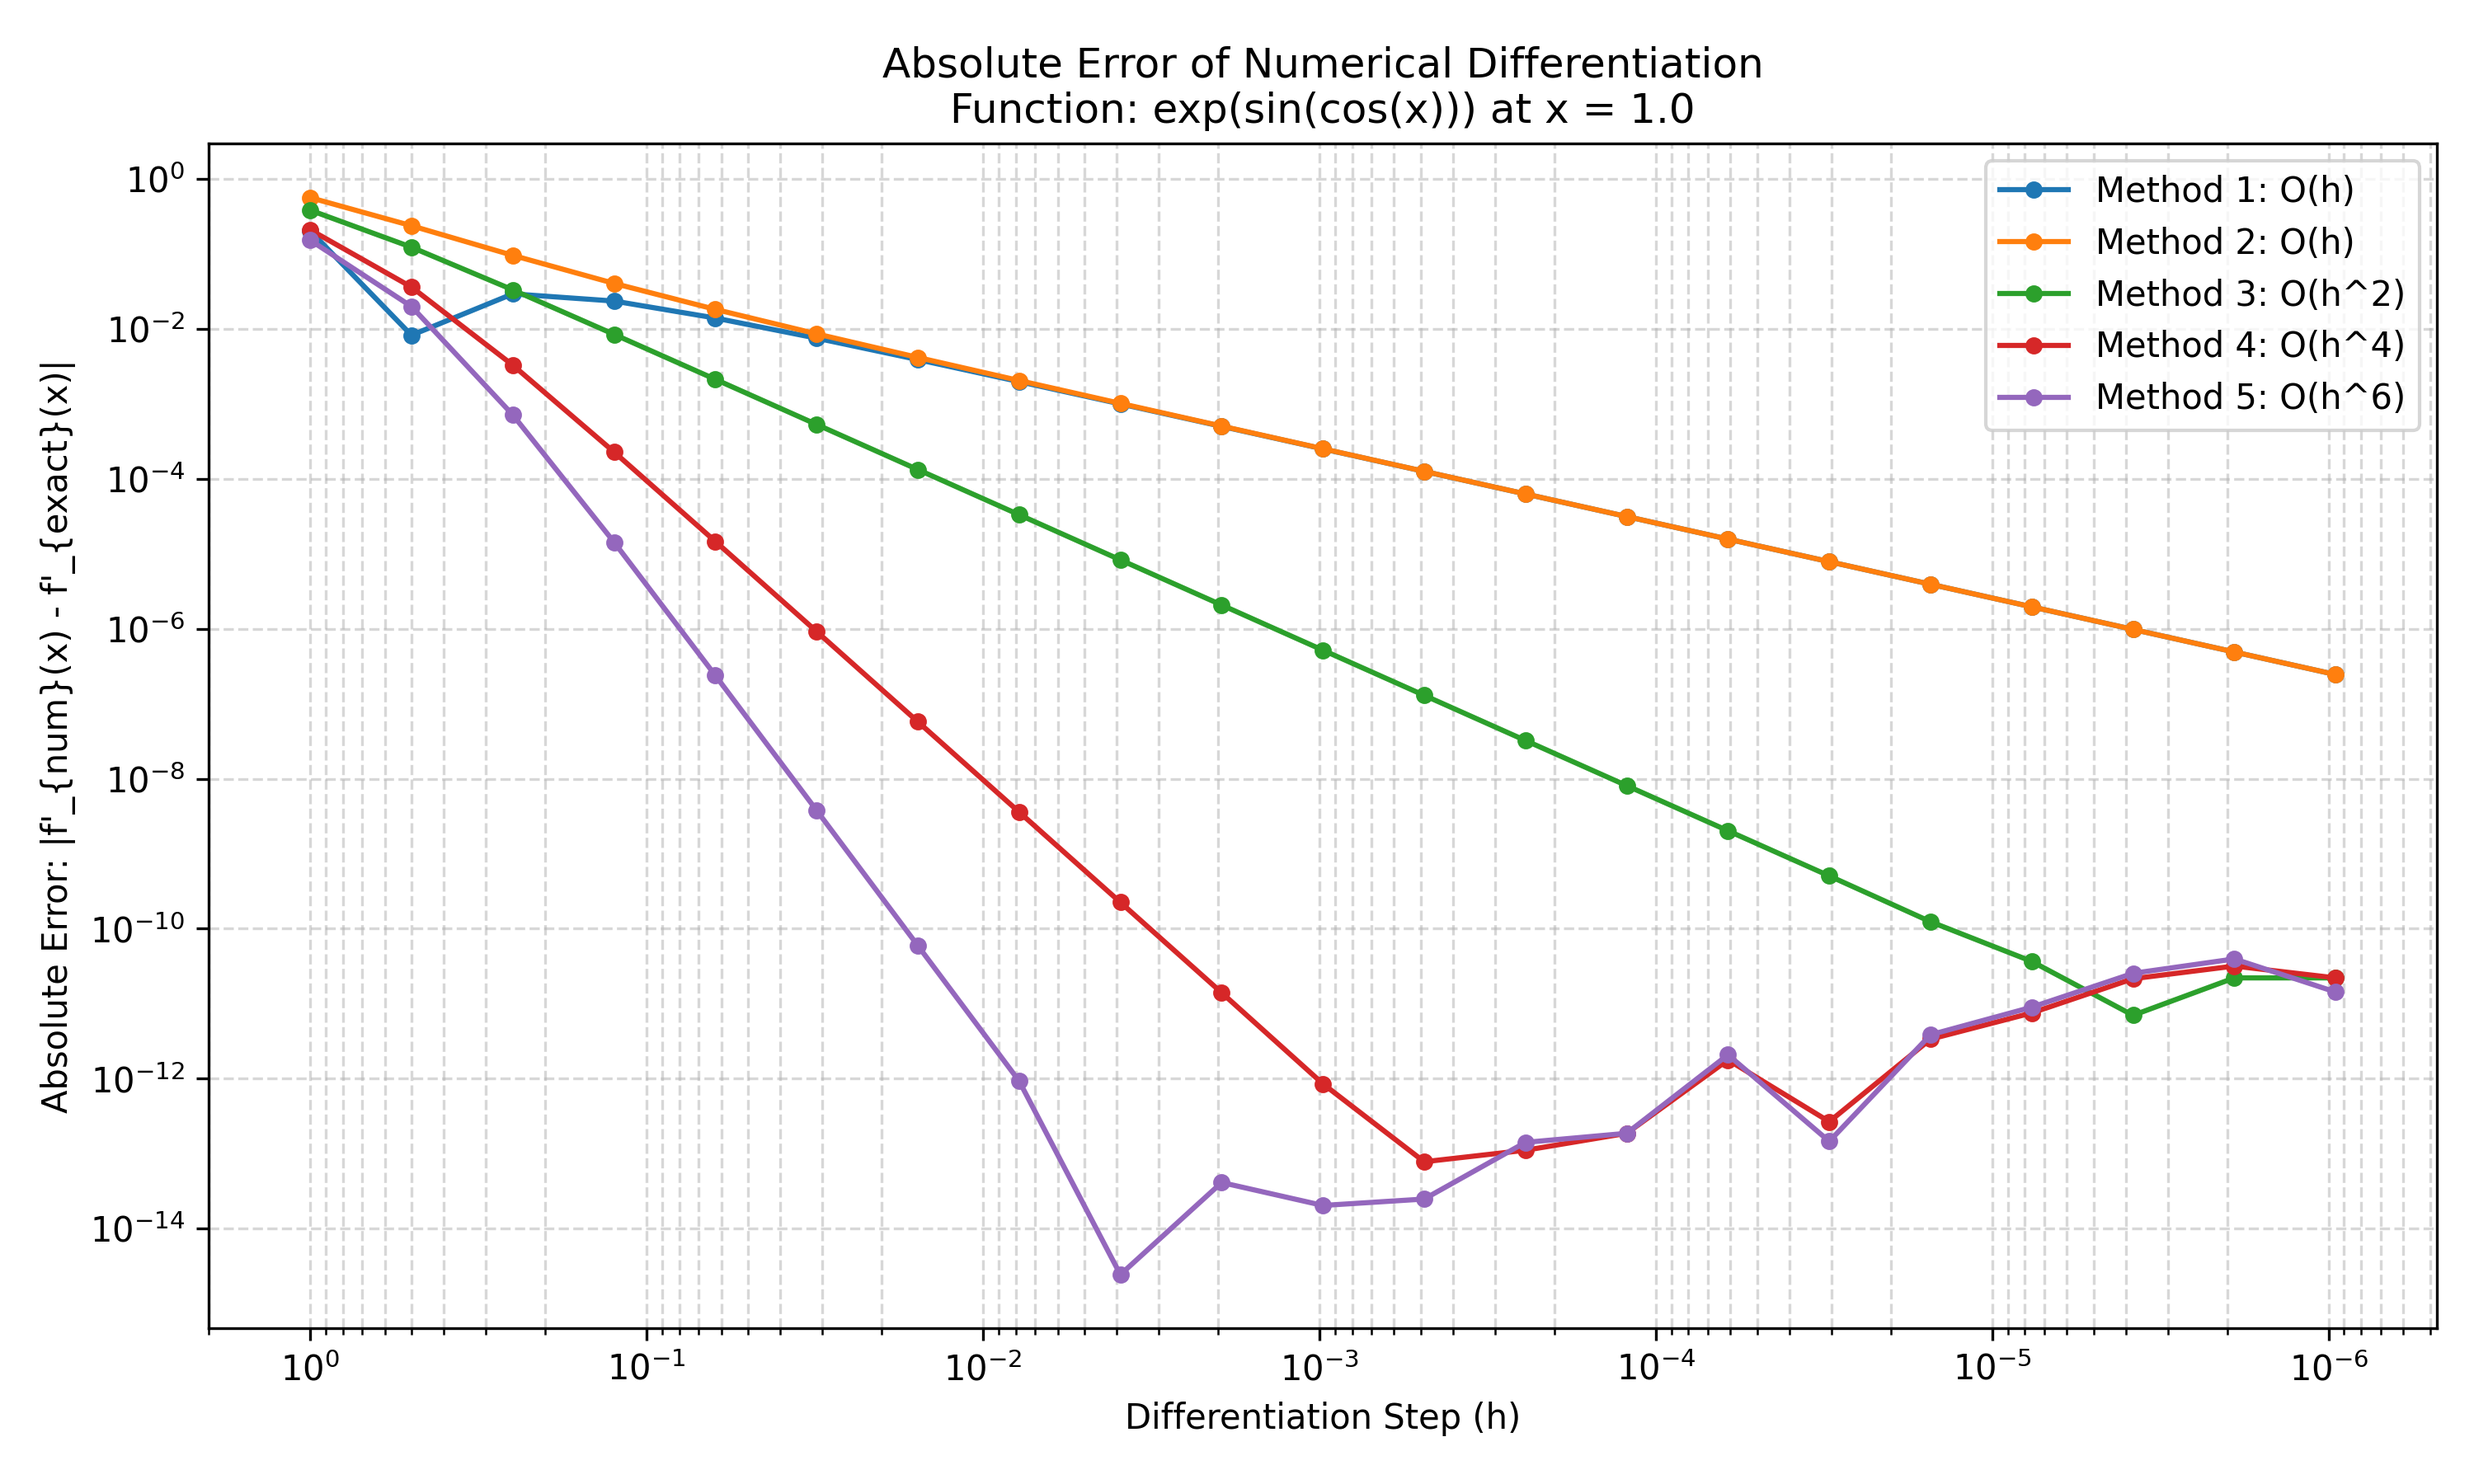
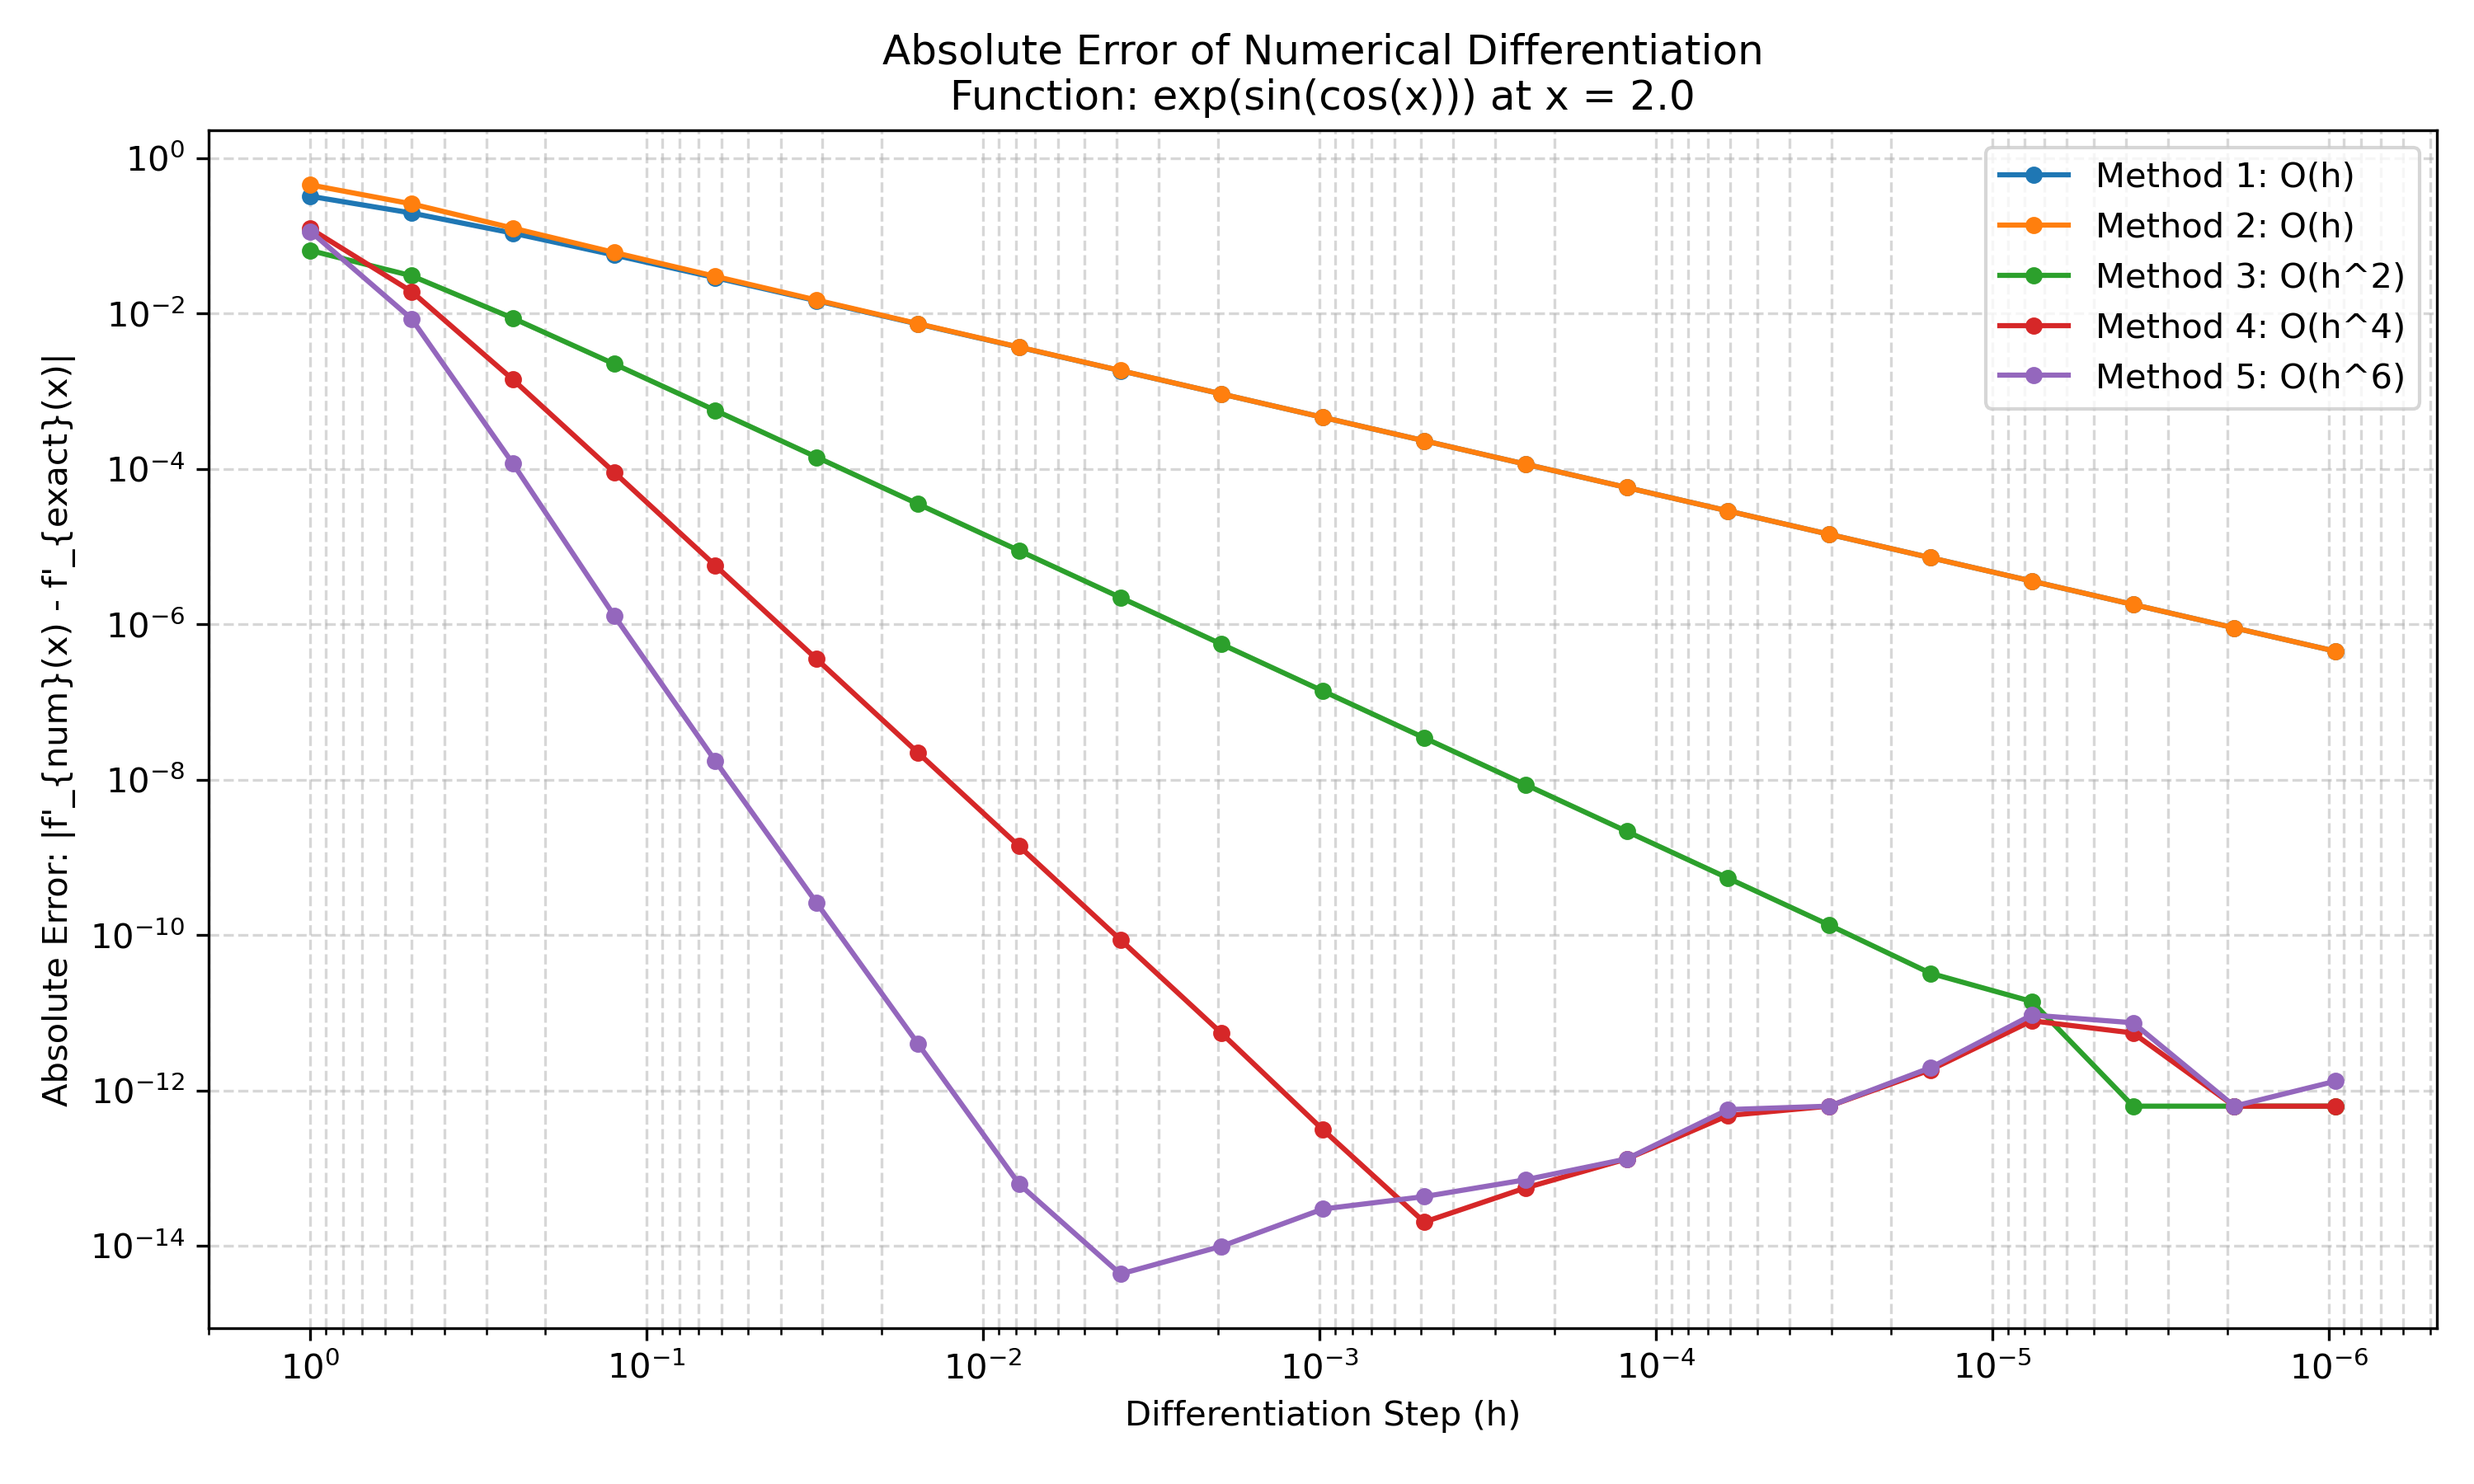
update graphics

diff --git a/lab_1/numeric_differentiation.py b/lab_1/numeric_differentiation.py
@@ -2,7 +2,7 @@ import numpy as np
 import matplotlib.pyplot as plt
 
 # Evaluation point
-x0 = 1.0
+x0 = float(input("Enter evaluation point x0: "))
 
 # Differentiation step sizes: hn = 2 / 2^n for n = 1..21
 n_vals = np.arange(1, 22)
